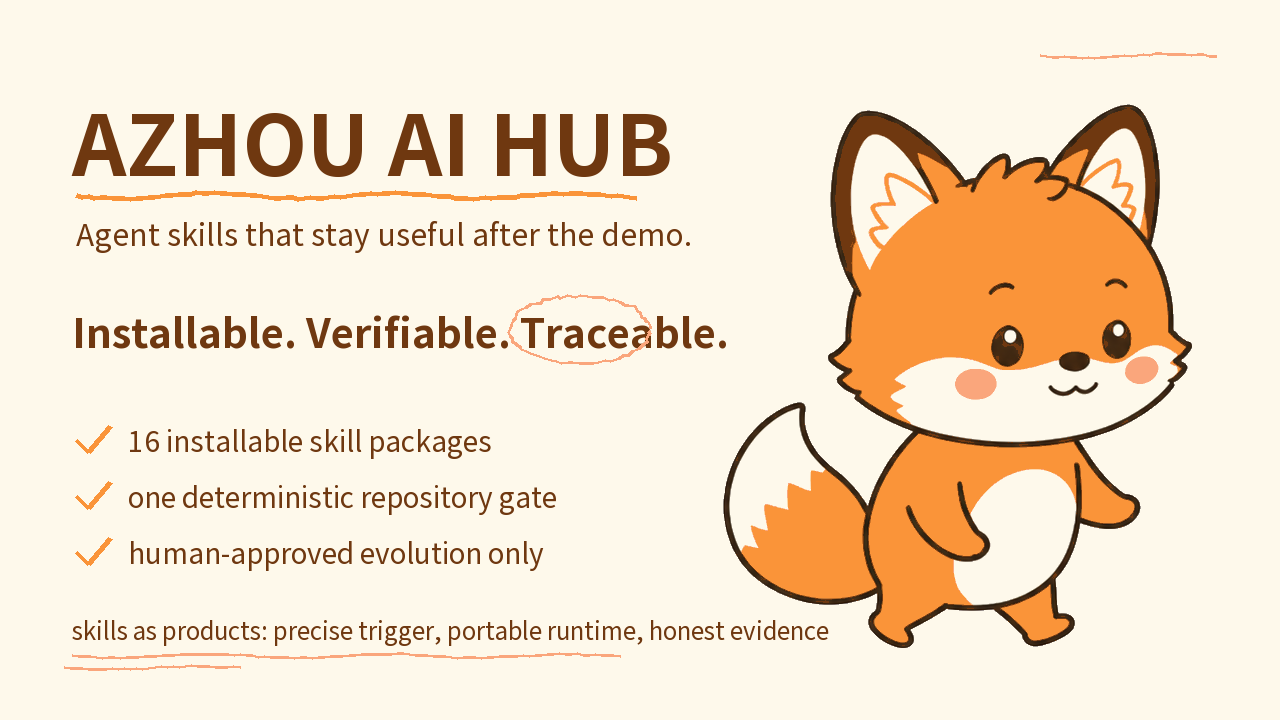
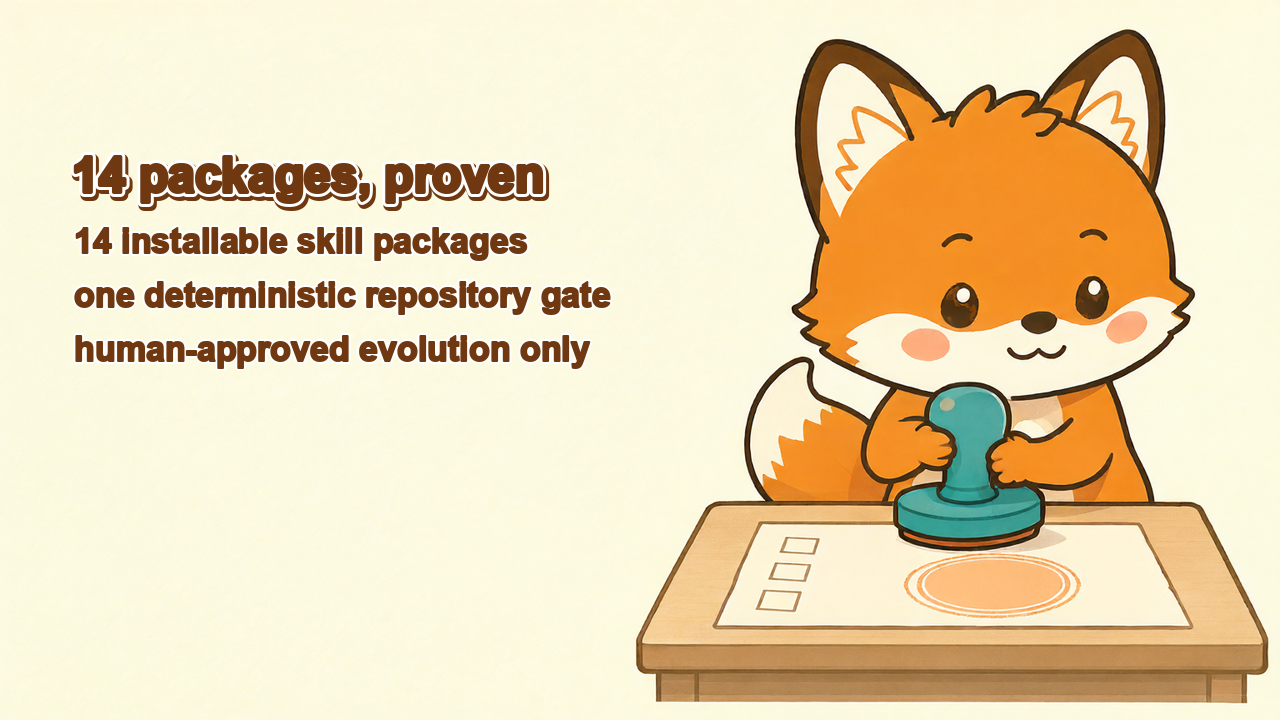
Refresh README hero to the fourteen-package catalog (#336)
## Why

After #332/#333 the catalog is fourteen packages, but the hero PNG still
showed 16. This replaces the hero with the approved redesign (direction
B stamp/gate, seed 7 hires batch): the Azhou fox (canonical reference)
stamping an approval seal on a checklist card — the repo's
deterministic-gate + human-approved-evolution story.

## Before / after

- Before: fox beside painted claims, count 16 (see the pre-image in this
PR's diff)
- After (full 1280×720): rendered in the diff; thumbnails reviewed at
120/240/360 px

## Provenance (honest)

Generated under the `github_readme_image_16_9` profile contract by the
local Azhou imagegen pipeline — Qwen-Image-2.1 **edit** engine with the
canonical fox as character reference, final tier (40 steps), 1536×864
raw (exact 16:9, 32-multiple) LANCZOS-downscaled to 1280×720; the three
claim lines are a deterministic text overlay, so future count changes
re-render text only. Run receipts are execution-scope local-candidate /
generation-binding-only in the maintainer's store. Maintainer (IP owner)
visual approval recorded 2026-10-25; identity checked against the
canonical (ears, muzzle, mouth, blush) at full crop.

## Door call

Two-way (public marketing asset; reversible via git history), but
public-facing — merging publishes the new visual.

## Verification

`python scripts/verify.py` green (7/7 gates) on this branch (treehouse
lease `6e697876d0a53fb0a426b5e6361b5cc1`, holder `hero-14-refresh`).
[…]

diff --git a/CHANGELOG.md b/CHANGELOG.md
@@ -4,6 +4,7 @@ All notable changes follow [Keep a Changelog](https://keepachangelog.com/en/1.1.
 
 ## [Unreleased]
 
+- Refreshed the README hero to the fourteen-package catalog after the super-caveman and super-autoresearch retirements: the Azhou fox (canonical reference) stamping an approval seal, generated under the `github_readme_image_16_9` profile contract by the local Azhou imagegen pipeline (Qwen-Image-2.1 edit with canonical character reference, final tier, 1536×864 raw downscaled to 1280×720) with the three claim lines overlaid deterministically; both README captions state the provenance and record the maintainer (IP owner) visual approval of 2026-10-25. Generation run receipts live in the maintainer's local store (execution scope: local candidate, generation binding only).
 - Removed the `super-autoresearch` canonical skill (maintainer retirement): one atomic commit deletes the package, its effect scene, the install command in both READMEs and the installation guide, the catalog row and showcase section, the gate discovery/brand/compat entries in `scripts/check_repository.py`, the support-matrix capability row and platform-view rows, the referenced-not-redistributed third-party-notice section, the eval-case-contract scope list and frozen-host example row, and the autoresearch fixtures in shared tests; the ask-azhou routing index is regenerated. The wrapper was the catalog's narrowest surface — a zero-vendored-bytes wrapper around an unlicensed user-owned `karpathy/autoresearch` checkout whose core `prepare`/`run`/`resume` modes fail closed without an NVIDIA CUDA GPU, i.e. inert on the maintainer's hosts. Existing local installs keep working as frozen copies; the old `autoresearch` name stops being a compatibility trigger and the retirement is recorded only here and in dated history. The hub moves to fourteen canonical packages.
 - Removed the `super-caveman` canonical skill (maintainer retirement): one atomic commit deletes the package, the `benchmarks/super-caveman/` promotion apparatus (approval records, evaluation contract, response/lifecycle/trigger cases, capability map), the `super-caveman` integrity suite plus the `--promotion-evidence` maintainer mode from `scripts/verify.py` and the release workflow's Git-external evidence materialization step, the gate discovery/brand/exemption entries in `scripts/check_repository.py`, the AGENTS.md promotion-record editing rule, the `super-caveman` rows in both READMEs, both MIT license copies and their third-party-notice sections, the eight caveman test modules and the caveman fixtures in shared tests, and regenerates the ask-azhou routing index. The retirement also removes the `--promotion-evidence` flag from the `scripts/azhou_hub.py` public wrapper (found in review: it still forwarded an option the verifier now rejects), and reworks the issue-#287 subprocess encoding guard to cover all repository-owned Python surfaces directly: with the promotion record gone, its reviewed-blobs "pinned surface" and the deferred-encoding exclusions no longer exist, so the 26 formerly-deferred `text=True` call sites now pin `encoding="utf-8"` explicitly. The retirement removes the exact-diff protection together with the machinery that enforced it in the same maintainer-approved commit (the superseded `revision-beb0568c` record is retired with its gate; the Git-external raw approval/review history in the maintainer's store stays untouched as dated history). Existing local installs keep working as frozen copies — except checkout-linked installs that wired the optional zcode / Claude Code / Codex lifecycle adapters: their hook registrations point into the checkout and must be removed before pulling this change (`python scripts/azhou_hub.py doctor --host-root <root>` reports the stale hook paths; observed live as a `hooks_prompt_block` error on the maintainer's zcode host after the retirement landed); the old `caveman` name stops being a compatibility trigger and the retirement is recorded only here and in dated history. The hub moves to fifteen canonical packages; the hero image's baked-in "16 packages" claim rides a follow-up human-reviewed scene batch.
 

diff --git a/README.md b/README.md
@@ -21,7 +21,7 @@ https://github.com/user-attachments/assets/38a350d6-ddb3-40cf-a878-9ee5005ce993
 
 </div>
 
-> 🦊 Hero composed with the Azhou Covers skill under the `github_readme_image_16_9` profile: cream paper, the registered four-colour palette, and the canonical character composited at exact pixels. Thumbnail review passed at 120/240/360 px; final public visual approval remains a human checkpoint.
+> 🦊 Hero generated under the `github_readme_image_16_9` profile contract (1280×720, lossless PNG): the Azhou fox (canonical reference) stamping an approval seal, rendered by the local Azhou imagegen pipeline (Qwen-Image-2.1 edit, seed 7 of the 2026-10-25 batch) with the claim lines overlaid deterministically. Reviewed at 120/240/360 px; maintainer (IP owner) visual approval recorded 2026-10-25.
 
 Most skill repositories stop at prompts. Azhou AI Hub treats each skill as a product: a precise trigger, a portable runtime package, reproducible setup, deterministic gates, honest evaluation, provenance, and a human-controlled evolution path.
 

diff --git a/README.zh-CN.md b/README.zh-CN.md
@@ -21,7 +21,7 @@ https://github.com/user-attachments/assets/38a350d6-ddb3-40cf-a878-9ee5005ce993
 
 </div>
 
-> 🦊 主视觉由 Azhou Covers skill 按 `github_readme_image_16_9` profile 确定性合成：米色纸面、注册四色、canonical 角色按原像素合成。120/240/360 px 缩略图复核已通过；最终公开视觉批准仍保留为人工 checkpoint。
+> 🦊 主视觉按 `github_readme_image_16_9` profile 合同生成（1280×720，无损 PNG）：阿舟狐狸（canonical 参考）盖章批准的画面由本地 Azhou imagegen 流水线生成（Qwen-Image-2.1 edit，2026-10-25 批次 seed 7），三条主张文字为确定性叠加。120/240/360 px 缩略图已复核；维护者（IP 权利人）视觉批准记录于 2026-10-25。
 
 很多 skill 仓库停在提示词。Azhou AI Hub 把每个 skill 当成产品：触发准确、运行包可移植、依赖可复现、检查可执行、评测不造假、来源可追踪、演化受人类控制。
 
